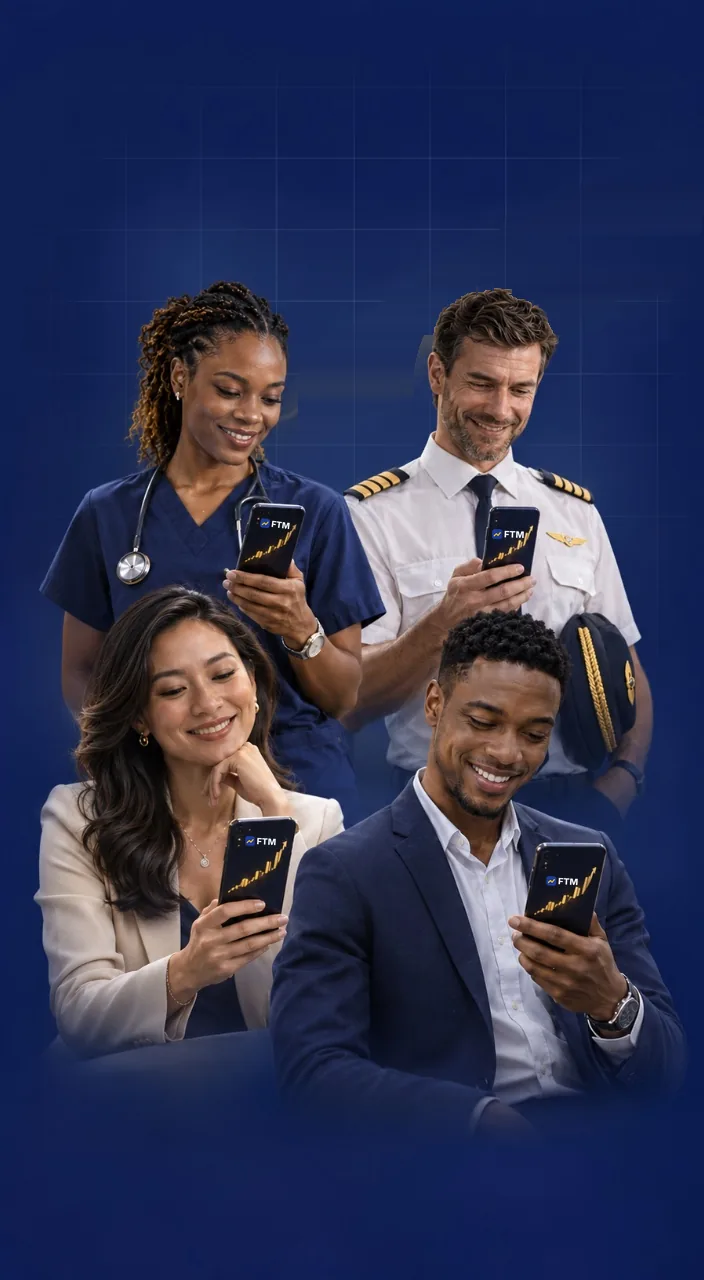
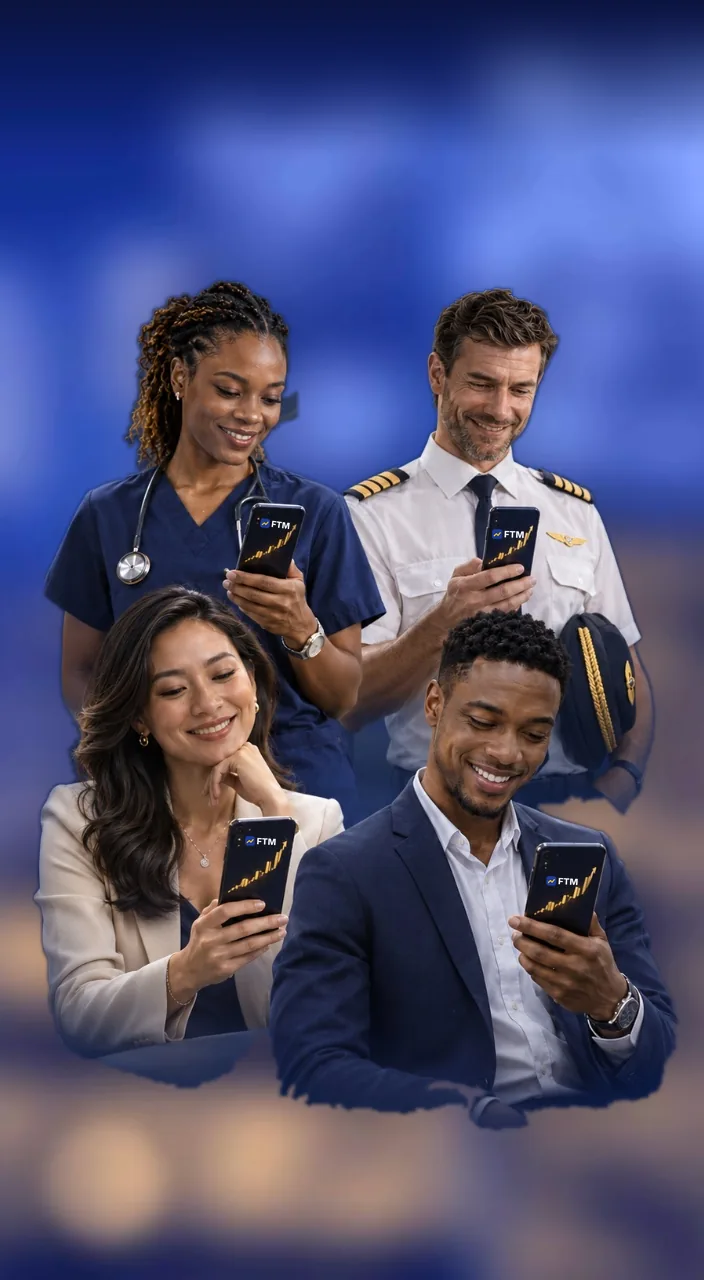
Hero: blurred night-city background behind the people
Claude-Session: https://claude.ai/code/session_015ASeiR4KkcEsuYPMxYb7QY

diff --git a/index.html b/index.html
@@ -1985,7 +1985,7 @@ html,body{max-width:100%;overflow-x:hidden}@supports (overflow:clip){html,body{o
 <main id="top">
 
 <section class="hero">
-  <div class="hero-bg"></div><picture class="hero-photo" aria-hidden="true"><source srcset="/hero-people.webp?v=3" type="image/webp"><img src="/hero-people.jpg?v=3" alt="" width="704" height="1280" fetchpriority="high" decoding="async"></picture><svg class="hero-people" viewBox="0 0 700 1000" preserveAspectRatio="xMidYMax slice" aria-hidden="true"><defs><radialGradient id="glow"><stop offset="0" stop-color="#fff" stop-opacity=".55"/><stop offset="1" stop-color="#fff" stop-opacity="0"/></radialGradient><linearGradient id="fade" x1="0" x2="1"><stop offset=".55" stop-color="#fff"/><stop offset="1" stop-color="#fff" stop-opacity="0"/></linearGradient><mask id="fadeMask"><rect width="700" height="1000" fill="url(#fade)"/></mask></defs><g mask="url(#fadeMask)"><g transform="translate(70 640) scale(1.0)"><path d="M-70 0 C-70 -70 -40 -95 0 -95 C40 -95 70 -70 70 0 Z" fill="#3B82F6"/><rect x="-14" y="-118" width="28" height="30" rx="8" fill="#5C3A21"/><ellipse cx="0" cy="-140" rx="34" ry="38" fill="#5C3A21"/><path d="M-34 -150 C-34 -190 34 -190 34 -150 C20 -168 -20 -168 -34 -150Z" fill="#d9b26f"/><path d="M-12 -126 Q0 -116 12 -126" stroke="#3a1f10" stroke-width="3" fill="none" stroke-linecap="round"/><path d="M-60 -40 Q-40 -80 -10 -70" stroke="#5C3A21" stroke-width="16" fill="none" stroke-linecap="round"/><path d="M60 -40 Q40 -80 10 -70" stroke="#5C3A21" stroke-width="16" fill="none" stroke-linecap="round"/><circle cx="0" cy="-80" r="60" fill="url(#glow)"/><rect x="-16" y="-96" width="32" height="50" rx="6" fill="#0B1440" stroke="#F5F3EE" stroke-width="2"/><rect x="-12" y="-90" width="24" height="38" rx="3" fill="#cfe3ff"/></g><g transform="translate(120 780) scale(1.1)"><path d="M-70 0 C-70 -70 -40 -95 0 -95 C40 -95 70 -70 70 0 Z" fill="#D4AF37"/><rect x="-14" y="-118" width="28" height="30" rx="8" fill="#8D5524"/><ellipse cx="0" cy="-140" rx="34" ry="38" fill="#8D5524"/><path d="M-34 -150 C-34 -190 34 -190 34 -150 C20 -168 -20 -168 -34 -150Z" fill="#d9b26f"/><path d="M-12 -126 Q0 -116 12 -126" stroke="#3a1f10" stroke-width="3" fill="none" stroke-linecap="round"/><path d="M-60 -40 Q-40 -80 -10 -70" stroke="#8D5524" stroke-width="16" fill="none" stroke-linecap="round"/><path d="M60 -40 Q40 -80 10 -70" stroke="#8D5524" stroke-width="16" fill="none" stroke-linecap="round"/><circle cx="0" cy="-80" r="60" fill="url(#glow)"/><rect x="-16" y="-96" width="32" height="50" rx="6" fill="#0B1440" stroke="#F5F3EE" stroke-width="2"/><rect x="-12" y="-90" width="24" height="38" rx="3" fill="#cfe3ff"/></g><g transform="translate(30 900) scale(1.3)"><path d="M-70 0 C-70 -70 -40 -95 0 -95 C40 -95 70 -70 70 0 Z" fill="#60A5FA"/><rect x="-14" y="-118" width="28" height="30" rx="8" fill="#8D5524"/><ellipse cx="0" cy="-140" rx="34" ry="38" fill="#8D5524"/><path d="M-36 -150 C-36 -185 36 -185 36 -150 L40 -100 L30 -100 L28 -140 L-28 -140 L-30 -100 L-40 -100Z" fill="#111"/><path d="M-12 -126 Q0 -116 12 -126" stroke="#3a1f10" stroke-width="3" fill="none" stroke-linecap="round"/><path d="M-60 -40 Q-40 -80 -10 -70" stroke="#8D5524" stroke-width="16" fill="none" stroke-linecap="round"/><path d="M60 -40 Q40 -80 10 -70" stroke="#8D5524" stroke-width="16" fill="none" stroke-linecap="round"/><circle cx="0" cy="-80" r="60" fill="url(#glow)"/><rect x="-16" y="-96" width="32" height="50" rx="6" fill="#0B1440" stroke="#F5F3EE" stroke-width="2"/><rect x="-12" y="-90" width="24" height="38" rx="3" fill="#cfe3ff"/></g><g transform="translate(240 950) scale(1.1)"><path d="M-70 0 C-70 -70 -40 -95 0 -95 C40 -95 70 -70 70 0 Z" fill="#60A5FA"/><rect x="-14" y="-118" width="28" height="30" rx="8" fill="#F1C27D"/><ellipse cx="0" cy="-140" rx="34" ry="38" fill="#F1C27D"/><path d="M-34 -150 C-34 -190 34 -190 34 -150 C20 -168 -20 -168 -34 -150Z" fill="#111"/><path d="M-12 -126 Q0 -116 12 -126" stroke="#3a1f10" stroke-width="3" fill="none" stroke-linecap="round"/><path d="M-60 -40 Q-40 -80 -10 -70" stroke="#F1C27D" stroke-width="16" fill="none" stroke-linecap="round"/><path d="M60 -40 Q40 -80 10 -70" stroke="#F1C27D" stroke-width="16" fill="none" stroke-linecap="round"/><circle cx="0" cy="-80" r="60" fill="url(#glow)"/><rect x="-16" y="-96" width="32" height="50" rx="6" fill="#0B1440" stroke="#F5F3EE" stroke-width="2"/><rect x="-12" y="-90" width="24" height="38" rx="3" fill="#cfe3ff"/></g><g class="algo"><line x1="531" y1="366" x2="538" y2="311" stroke="#F5F3EE" stroke-width="1.2"/><line x1="531" y1="366" x2="562" y2="323" stroke="#F5F3EE" stroke-width="1.2"/><line x1="531" y1="366" x2="622" y2="394" stroke="#F5F3EE" stroke-width="1.2"/><line x1="531" y1="366" x2="528" y2="235" stroke="#F5F3EE" stroke-width="1.2"/><line x1="531" y1="366" x2="575" y2="494" stroke="#F5F3EE" stroke-width="1.2"/><line x1="531" y1="366" x2="655" y2="404" stroke="#F5F3EE" stroke-width="1.2"/><line x1="531" y1="366" x2="502" y2="311" stroke="#F5F3EE" stroke-width="1.2"/><line x1="531" y1="366" x2="634" y2="458" stroke="#F5F3EE" stroke-width="1.2"/><line x1="531" y1="366" x2="615" y2="412" stroke="#F5F3EE" stroke-width="1.2"/><line x1="538" y1="311" x2="600" y2="177" stroke="#F5F3EE" stroke-width="1.2"/><line x1="538" y1="311" x2="562" y2="323" stroke="#F5F3EE" stroke-width="1.2"/><line x1="538" y1="311" x2="622" y2="394" stroke="#F5F3EE" stroke-width="1.2"/><line x1="538" y1="311" x2="528" y2="235" stroke="#F5F3EE" stroke-width="1.2"/><line x1="538" y1="311" x2="655" y2="404" stroke="#F5F3EE" stroke-width="1.2"/><line x1="538" y1="311" x2="502" y2="311" stroke="#F5F3EE" stroke-width="1.2"/><line x1="538" y1="311" x2="615" y2="412" stroke="#F5F3EE" stroke-width="1.2"/><line x1="560" y1="517" x2="622" y2="394" stroke="#F5F3EE" stroke-width="1.2"/><line x1="560" y1="517" x2="575" y2="494" stroke="#F5F3EE" stroke-width="1.2"/><line x1="560" y1="517" x2="655" y2="404" stroke="#F5F3EE" stroke-width="1.2"/><line x1="560" y1="517" x2="634" y2="458" stroke="#F5F3EE" stroke-width="1.2"/><line x1="560" y1="517" x2="615" y2="412" stroke="#F5F3EE" stroke-width="1.2"/><line x1="600" y1="177" x2="528" y2="235" stroke="#F5F3EE" stroke-width="1.2"/><line x1="600" y1="177" x2="570" y2="112" stroke="#F5F3EE" stroke-width="1.2"/><line x1="600" y1="177" x2="607" y2="95" stroke="#F5F3EE" stroke-width="1.2"/><line x1="394" y1="491" x2="321" y2="384" stroke="#F5F3EE" stroke-width="1.2"/><line x1="394" y1="491" x2="380" y2="399" stroke="#F5F3EE" stroke-width="1.2"/><line x1="394" y1="491" x2="307" y2="505" stroke="#F5F3EE" stroke-width="1.2"/><line x1="562" y1="323" x2="622" y2="394" stroke="#F5F3EE" stroke-width="1.2"/><line x1="562" y1="323" x2="528" y2="235" stroke="#F5F3EE" stroke-width="1.2"/><line x1="562" y1="323" x2="655" y2="404" stroke="#F5F3EE" stroke-width="1.2"/><line x1="562" y1="323" x2="502" y2="311" stroke="#F5F3EE" stroke-width="1.2"/><line x1="562" y1="323" x2="615" y2="412" stroke="#F5F3EE" stroke-width="1.2"/><line x1="622" y1="394" x2="575" y2="494" stroke="#F5F3EE" stroke-width="1.2"/><line x1="622" y1="394" x2="655" y2="404" stroke="#F5F3EE" stroke-width="1.2"/><line x1="622" y1="394" x2="502" y2="311" stroke="#F5F3EE" stroke-width="1.2"/><line x1="622" y1="394" x2="634" y2="458" stroke="#F5F3EE" stroke-width="1.2"/><line x1="622" y1="394" x2="615" y2="412" stroke="#F5F3EE" stroke-width="1.2"/><line x1="395" y1="128" x2="372" y2="126" stroke="#F5F3EE" stroke-width="1.2"/><line x1="395" y1="128" x2="330" y2="98" stroke="#F5F3EE" stroke-width="1.2"/><line x1="395" y1="128" x2="397" y2="203" stroke="#F5F3EE" stroke-width="1.2"/><line x1="528" y1="235" x2="502" y2="311" stroke="#F5F3EE" stroke-width="1.2"/><line x1="528" y1="235" x2="570" y2="112" stroke="#F5F3EE" stroke-width="1.2"/><line x1="528" y1="235" x2="397" y2="203" stroke="#F5F3EE" stroke-width="1.2"/><line x1="372" y1="126" x2="330" y2="98" stroke="#F5F3EE" stroke-width="1.2"/><line x1="372" y1="126" x2="397" y2="203" stroke="#F5F3EE" stroke-width="1.2"/><line x1="575" y1="494" x2="655" y2="404" stroke="#F5F3EE" stroke-width="1.2"/><line x1="575" y1="494" x2="634" y2="458" stroke="#F5F3EE" stroke-width="1.2"/><line x1="575" y1="494" x2="615" y2="412" stroke="#F5F3EE" stroke-width="1.2"/><line x1="655" y1="404" x2="634" y2="458" stroke="#F5F3EE" stroke-width="1.2"/><line x1="655" y1="404" x2="615" y2="412" stroke="#F5F3EE" stroke-width="1.2"/><line x1="321" y1="384" x2="380" y2="399" stroke="#F5F3EE" stroke-width="1.2"/><line x1="321" y1="384" x2="307" y2="505" stroke="#F5F3EE" stroke-width="1.2"/><line x1="634" y1="458" x2="615" y2="412" stroke="#F5F3EE" stroke-width="1.2"/><line x1="380" y1="399" x2="307" y2="505" stroke="#F5F3EE" stroke-width="1.2"/><line x1="570" y1="112" x2="607" y2="95" stroke="#F5F3EE" stroke-width="1.2"/><line x1="330" y1="98" x2="397" y2="203" stroke="#F5F3EE" stroke-width="1.2"/><circle cx="531" cy="366" r="5" fill="#60A5FA"/><circle cx="538" cy="311" r="5" fill="#F5F3EE"/><circle cx="560" cy="517" r="7" fill="#F5F3EE"/><circle cx="600" cy="177" r="7" fill="#60A5FA"/><circle cx="394" cy="491" r="5" fill="#D4AF37"/><circle cx="562" cy="323" r="7" fill="#D4AF37"/><circle cx="622" cy="394" r="5" fill="#60A5FA"/><circle cx="395" cy="128" r="5" fill="#D4AF37"/><circle cx="528" cy="235" r="7" fill="#60A5FA"/><circle cx="372" cy="126" r="5" fill="#F5F3EE"/><circle cx="575" cy="494" r="7" fill="#60A5FA"/><circle cx="655" cy="404" r="4" fill="#D4AF37"/><circle cx="321" cy="384" r="7" fill="#D4AF37"/><circle cx="502" cy="311" r="5" fill="#D4AF37"/><circle cx="634" cy="458" r="5" fill="#2fa66b"/><circle cx="615" cy="412" r="4" fill="#D4AF37"/><circle cx="380" cy="399" r="7" fill="#D4AF37"/><circle cx="307" cy="505" r="4" fill="#F5F3EE"/><circle cx="570" cy="112" r="4" fill="#2fa66b"/><circle cx="330" cy="98" r="5" fill="#2fa66b"/><circle cx="397" cy="203" r="5" fill="#D4AF37"/><circle cx="607" cy="95" r="7" fill="#F5F3EE"/><text x="380" y="560" font-family="ui-monospace,Menlo,monospace" font-size="15" fill="#D4AF37" opacity="0.9">for setup in setups:</text><text x="380" y="586" font-family="ui-monospace,Menlo,monospace" font-size="15" fill="#F5F3EE" opacity="0.7">def execute(order):</text><text x="340" y="612" font-family="ui-monospace,Menlo,monospace" font-size="15" fill="#F5F3EE" opacity="0.5">def execute(order):</text><text x="300" y="638" font-family="ui-monospace,Menlo,monospace" font-size="15" fill="#F5F3EE" opacity="0.7">await broker.send()</text><text x="340" y="664" font-family="ui-monospace,Menlo,monospace" font-size="15" fill="#60A5FA" opacity="0.5">tp = entry + atr*3</text><text x="420" y="690" font-family="ui-monospace,Menlo,monospace" font-size="15" fill="#60A5FA" opacity="0.9">while market.open:</text><text x="420" y="716" font-family="ui-monospace,Menlo,monospace" font-size="15" fill="#60A5FA" opacity="0.7">def execute(order):</text><text x="420" y="742" font-family="ui-monospace,Menlo,monospace" font-size="15" fill="#D4AF37" opacity="0.9">if price &gt; ema200:</text><text x="380" y="768" font-family="ui-monospace,Menlo,monospace" font-size="15" fill="#60A5FA" opacity="0.7">if price &gt; ema200:</text><text x="340" y="794" font-family="ui-monospace,Menlo,monospace" font-size="15" fill="#F5F3EE" opacity="0.7">def execute(order):</text><text x="300" y="820" font-family="ui-monospace,Menlo,monospace" font-size="15" fill="#F5F3EE" opacity="0.9">if rsi &lt; 30 and trend:</text><text x="380" y="846" font-family="ui-monospace,Menlo,monospace" font-size="15" fill="#F5F3EE" opacity="0.5">drawdown &lt; 15%</text><text x="380" y="872" font-family="ui-monospace,Menlo,monospace" font-size="15" fill="#D4AF37" opacity="0.9">risk = 0.5%</text><text x="300" y="898" font-family="ui-monospace,Menlo,monospace" font-size="15" fill="#F5F3EE" opacity="0.5">01001101 01010100</text><text x="300" y="924" font-family="ui-monospace,Menlo,monospace" font-size="15" fill="#60A5FA" opacity="0.7">position.size = eq*r</text><text x="420" y="950" font-family="ui-monospace,Menlo,monospace" font-size="15" fill="#F5F3EE" opacity="0.5">await broker.send()</text><g stroke="#F5F3EE" stroke-width="1.5" fill="none"><rect x="560" y="560" width="110" height="34" rx="8"/><rect x="560" y="640" width="110" height="34" rx="8"/><rect x="560" y="720" width="110" height="34" rx="8"/><path d="M615 594v46M615 674v46" marker-end="none"/><path d="M609 634l6 6 6-6M609 714l6 6 6-6"/></g><g font-family="Inter,sans-serif" font-size="12" fill="#F5F3EE" text-anchor="middle"><text x="615" y="582">scan markets</text><text x="615" y="662">check rules</text><text x="615" y="742">execute</text></g><rect x="310" y="916" width="8" height="36" fill="#2fa66b"/><rect x="336" y="904" width="8" height="37" fill="#2fa66b"/><rect x="362" y="889" width="8" height="30" fill="#E5323E"/><rect x="388" y="894" width="8" height="39" fill="#2fa66b"/><rect x="414" y="892" width="8" height="33" fill="#2fa66b"/><rect x="440" y="920" width="8" height="33" fill="#2fa66b"/><rect x="466" y="940" width="8" height="31" fill="#E5323E"/><rect x="492" y="910" width="8" height="38" fill="#2fa66b"/><rect x="518" y="883" width="8" height="23" fill="#2fa66b"/><rect x="544" y="882" width="8" height="13" fill="#E5323E"/><rect x="570" y="927" width="8" height="17" fill="#E5323E"/><rect x="596" y="906" width="8" height="18" fill="#E5323E"/><rect x="622" y="913" width="8" height="19" fill="#2fa66b"/><rect x="648" y="926" width="8" height="39" fill="#2fa66b"/></g></g></svg>
+  <div class="hero-bg"></div><picture class="hero-photo" aria-hidden="true"><source srcset="/hero-people.webp?v=4" type="image/webp"><img src="/hero-people.jpg?v=4" alt="" width="704" height="1280" fetchpriority="high" decoding="async"></picture><svg class="hero-people" viewBox="0 0 700 1000" preserveAspectRatio="xMidYMax slice" aria-hidden="true"><defs><radialGradient id="glow"><stop offset="0" stop-color="#fff" stop-opacity=".55"/><stop offset="1" stop-color="#fff" stop-opacity="0"/></radialGradient><linearGradient id="fade" x1="0" x2="1"><stop offset=".55" stop-color="#fff"/><stop offset="1" stop-color="#fff" stop-opacity="0"/></linearGradient><mask id="fadeMask"><rect width="700" height="1000" fill="url(#fade)"/></mask></defs><g mask="url(#fadeMask)"><g transform="translate(70 640) scale(1.0)"><path d="M-70 0 C-70 -70 -40 -95 0 -95 C40 -95 70 -70 70 0 Z" fill="#3B82F6"/><rect x="-14" y="-118" width="28" height="30" rx="8" fill="#5C3A21"/><ellipse cx="0" cy="-140" rx="34" ry="38" fill="#5C3A21"/><path d="M-34 -150 C-34 -190 34 -190 34 -150 C20 -168 -20 -168 -34 -150Z" fill="#d9b26f"/><path d="M-12 -126 Q0 -116 12 -126" stroke="#3a1f10" stroke-width="3" fill="none" stroke-linecap="round"/><path d="M-60 -40 Q-40 -80 -10 -70" stroke="#5C3A21" stroke-width="16" fill="none" stroke-linecap="round"/><path d="M60 -40 Q40 -80 10 -70" stroke="#5C3A21" stroke-width="16" fill="none" stroke-linecap="round"/><circle cx="0" cy="-80" r="60" fill="url(#glow)"/><rect x="-16" y="-96" width="32" height="50" rx="6" fill="#0B1440" stroke="#F5F3EE" stroke-width="2"/><rect x="-12" y="-90" width="24" height="38" rx="3" fill="#cfe3ff"/></g><g transform="translate(120 780) scale(1.1)"><path d="M-70 0 C-70 -70 -40 -95 0 -95 C40 -95 70 -70 70 0 Z" fill="#D4AF37"/><rect x="-14" y="-118" width="28" height="30" rx="8" fill="#8D5524"/><ellipse cx="0" cy="-140" rx="34" ry="38" fill="#8D5524"/><path d="M-34 -150 C-34 -190 34 -190 34 -150 C20 -168 -20 -168 -34 -150Z" fill="#d9b26f"/><path d="M-12 -126 Q0 -116 12 -126" stroke="#3a1f10" stroke-width="3" fill="none" stroke-linecap="round"/><path d="M-60 -40 Q-40 -80 -10 -70" stroke="#8D5524" stroke-width="16" fill="none" stroke-linecap="round"/><path d="M60 -40 Q40 -80 10 -70" stroke="#8D5524" stroke-width="16" fill="none" stroke-linecap="round"/><circle cx="0" cy="-80" r="60" fill="url(#glow)"/><rect x="-16" y="-96" width="32" height="50" rx="6" fill="#0B1440" stroke="#F5F3EE" stroke-width="2"/><rect x="-12" y="-90" width="24" height="38" rx="3" fill="#cfe3ff"/></g><g transform="translate(30 900) scale(1.3)"><path d="M-70 0 C-70 -70 -40 -95 0 -95 C40 -95 70 -70 70 0 Z" fill="#60A5FA"/><rect x="-14" y="-118" width="28" height="30" rx="8" fill="#8D5524"/><ellipse cx="0" cy="-140" rx="34" ry="38" fill="#8D5524"/><path d="M-36 -150 C-36 -185 36 -185 36 -150 L40 -100 L30 -100 L28 -140 L-28 -140 L-30 -100 L-40 -100Z" fill="#111"/><path d="M-12 -126 Q0 -116 12 -126" stroke="#3a1f10" stroke-width="3" fill="none" stroke-linecap="round"/><path d="M-60 -40 Q-40 -80 -10 -70" stroke="#8D5524" stroke-width="16" fill="none" stroke-linecap="round"/><path d="M60 -40 Q40 -80 10 -70" stroke="#8D5524" stroke-width="16" fill="none" stroke-linecap="round"/><circle cx="0" cy="-80" r="60" fill="url(#glow)"/><rect x="-16" y="-96" width="32" height="50" rx="6" fill="#0B1440" stroke="#F5F3EE" stroke-width="2"/><rect x="-12" y="-90" width="24" height="38" rx="3" fill="#cfe3ff"/></g><g transform="translate(240 950) scale(1.1)"><path d="M-70 0 C-70 -70 -40 -95 0 -95 C40 -95 70 -70 70 0 Z" fill="#60A5FA"/><rect x="-14" y="-118" width="28" height="30" rx="8" fill="#F1C27D"/><ellipse cx="0" cy="-140" rx="34" ry="38" fill="#F1C27D"/><path d="M-34 -150 C-34 -190 34 -190 34 -150 C20 -168 -20 -168 -34 -150Z" fill="#111"/><path d="M-12 -126 Q0 -116 12 -126" stroke="#3a1f10" stroke-width="3" fill="none" stroke-linecap="round"/><path d="M-60 -40 Q-40 -80 -10 -70" stroke="#F1C27D" stroke-width="16" fill="none" stroke-linecap="round"/><path d="M60 -40 Q40 -80 10 -70" stroke="#F1C27D" stroke-width="16" fill="none" stroke-linecap="round"/><circle cx="0" cy="-80" r="60" fill="url(#glow)"/><rect x="-16" y="-96" width="32" height="50" rx="6" fill="#0B1440" stroke="#F5F3EE" stroke-width="2"/><rect x="-12" y="-90" width="24" height="38" rx="3" fill="#cfe3ff"/></g><g class="algo"><line x1="531" y1="366" x2="538" y2="311" stroke="#F5F3EE" stroke-width="1.2"/><line x1="531" y1="366" x2="562" y2="323" stroke="#F5F3EE" stroke-width="1.2"/><line x1="531" y1="366" x2="622" y2="394" stroke="#F5F3EE" stroke-width="1.2"/><line x1="531" y1="366" x2="528" y2="235" stroke="#F5F3EE" stroke-width="1.2"/><line x1="531" y1="366" x2="575" y2="494" stroke="#F5F3EE" stroke-width="1.2"/><line x1="531" y1="366" x2="655" y2="404" stroke="#F5F3EE" stroke-width="1.2"/><line x1="531" y1="366" x2="502" y2="311" stroke="#F5F3EE" stroke-width="1.2"/><line x1="531" y1="366" x2="634" y2="458" stroke="#F5F3EE" stroke-width="1.2"/><line x1="531" y1="366" x2="615" y2="412" stroke="#F5F3EE" stroke-width="1.2"/><line x1="538" y1="311" x2="600" y2="177" stroke="#F5F3EE" stroke-width="1.2"/><line x1="538" y1="311" x2="562" y2="323" stroke="#F5F3EE" stroke-width="1.2"/><line x1="538" y1="311" x2="622" y2="394" stroke="#F5F3EE" stroke-width="1.2"/><line x1="538" y1="311" x2="528" y2="235" stroke="#F5F3EE" stroke-width="1.2"/><line x1="538" y1="311" x2="655" y2="404" stroke="#F5F3EE" stroke-width="1.2"/><line x1="538" y1="311" x2="502" y2="311" stroke="#F5F3EE" stroke-width="1.2"/><line x1="538" y1="311" x2="615" y2="412" stroke="#F5F3EE" stroke-width="1.2"/><line x1="560" y1="517" x2="622" y2="394" stroke="#F5F3EE" stroke-width="1.2"/><line x1="560" y1="517" x2="575" y2="494" stroke="#F5F3EE" stroke-width="1.2"/><line x1="560" y1="517" x2="655" y2="404" stroke="#F5F3EE" stroke-width="1.2"/><line x1="560" y1="517" x2="634" y2="458" stroke="#F5F3EE" stroke-width="1.2"/><line x1="560" y1="517" x2="615" y2="412" stroke="#F5F3EE" stroke-width="1.2"/><line x1="600" y1="177" x2="528" y2="235" stroke="#F5F3EE" stroke-width="1.2"/><line x1="600" y1="177" x2="570" y2="112" stroke="#F5F3EE" stroke-width="1.2"/><line x1="600" y1="177" x2="607" y2="95" stroke="#F5F3EE" stroke-width="1.2"/><line x1="394" y1="491" x2="321" y2="384" stroke="#F5F3EE" stroke-width="1.2"/><line x1="394" y1="491" x2="380" y2="399" stroke="#F5F3EE" stroke-width="1.2"/><line x1="394" y1="491" x2="307" y2="505" stroke="#F5F3EE" stroke-width="1.2"/><line x1="562" y1="323" x2="622" y2="394" stroke="#F5F3EE" stroke-width="1.2"/><line x1="562" y1="323" x2="528" y2="235" stroke="#F5F3EE" stroke-width="1.2"/><line x1="562" y1="323" x2="655" y2="404" stroke="#F5F3EE" stroke-width="1.2"/><line x1="562" y1="323" x2="502" y2="311" stroke="#F5F3EE" stroke-width="1.2"/><line x1="562" y1="323" x2="615" y2="412" stroke="#F5F3EE" stroke-width="1.2"/><line x1="622" y1="394" x2="575" y2="494" stroke="#F5F3EE" stroke-width="1.2"/><line x1="622" y1="394" x2="655" y2="404" stroke="#F5F3EE" stroke-width="1.2"/><line x1="622" y1="394" x2="502" y2="311" stroke="#F5F3EE" stroke-width="1.2"/><line x1="622" y1="394" x2="634" y2="458" stroke="#F5F3EE" stroke-width="1.2"/><line x1="622" y1="394" x2="615" y2="412" stroke="#F5F3EE" stroke-width="1.2"/><line x1="395" y1="128" x2="372" y2="126" stroke="#F5F3EE" stroke-width="1.2"/><line x1="395" y1="128" x2="330" y2="98" stroke="#F5F3EE" stroke-width="1.2"/><line x1="395" y1="128" x2="397" y2="203" stroke="#F5F3EE" stroke-width="1.2"/><line x1="528" y1="235" x2="502" y2="311" stroke="#F5F3EE" stroke-width="1.2"/><line x1="528" y1="235" x2="570" y2="112" stroke="#F5F3EE" stroke-width="1.2"/><line x1="528" y1="235" x2="397" y2="203" stroke="#F5F3EE" stroke-width="1.2"/><line x1="372" y1="126" x2="330" y2="98" stroke="#F5F3EE" stroke-width="1.2"/><line x1="372" y1="126" x2="397" y2="203" stroke="#F5F3EE" stroke-width="1.2"/><line x1="575" y1="494" x2="655" y2="404" stroke="#F5F3EE" stroke-width="1.2"/><line x1="575" y1="494" x2="634" y2="458" stroke="#F5F3EE" stroke-width="1.2"/><line x1="575" y1="494" x2="615" y2="412" stroke="#F5F3EE" stroke-width="1.2"/><line x1="655" y1="404" x2="634" y2="458" stroke="#F5F3EE" stroke-width="1.2"/><line x1="655" y1="404" x2="615" y2="412" stroke="#F5F3EE" stroke-width="1.2"/><line x1="321" y1="384" x2="380" y2="399" stroke="#F5F3EE" stroke-width="1.2"/><line x1="321" y1="384" x2="307" y2="505" stroke="#F5F3EE" stroke-width="1.2"/><line x1="634" y1="458" x2="615" y2="412" stroke="#F5F3EE" stroke-width="1.2"/><line x1="380" y1="399" x2="307" y2="505" stroke="#F5F3EE" stroke-width="1.2"/><line x1="570" y1="112" x2="607" y2="95" stroke="#F5F3EE" stroke-width="1.2"/><line x1="330" y1="98" x2="397" y2="203" stroke="#F5F3EE" stroke-width="1.2"/><circle cx="531" cy="366" r="5" fill="#60A5FA"/><circle cx="538" cy="311" r="5" fill="#F5F3EE"/><circle cx="560" cy="517" r="7" fill="#F5F3EE"/><circle cx="600" cy="177" r="7" fill="#60A5FA"/><circle cx="394" cy="491" r="5" fill="#D4AF37"/><circle cx="562" cy="323" r="7" fill="#D4AF37"/><circle cx="622" cy="394" r="5" fill="#60A5FA"/><circle cx="395" cy="128" r="5" fill="#D4AF37"/><circle cx="528" cy="235" r="7" fill="#60A5FA"/><circle cx="372" cy="126" r="5" fill="#F5F3EE"/><circle cx="575" cy="494" r="7" fill="#60A5FA"/><circle cx="655" cy="404" r="4" fill="#D4AF37"/><circle cx="321" cy="384" r="7" fill="#D4AF37"/><circle cx="502" cy="311" r="5" fill="#D4AF37"/><circle cx="634" cy="458" r="5" fill="#2fa66b"/><circle cx="615" cy="412" r="4" fill="#D4AF37"/><circle cx="380" cy="399" r="7" fill="#D4AF37"/><circle cx="307" cy="505" r="4" fill="#F5F3EE"/><circle cx="570" cy="112" r="4" fill="#2fa66b"/><circle cx="330" cy="98" r="5" fill="#2fa66b"/><circle cx="397" cy="203" r="5" fill="#D4AF37"/><circle cx="607" cy="95" r="7" fill="#F5F3EE"/><text x="380" y="560" font-family="ui-monospace,Menlo,monospace" font-size="15" fill="#D4AF37" opacity="0.9">for setup in setups:</text><text x="380" y="586" font-family="ui-monospace,Menlo,monospace" font-size="15" fill="#F5F3EE" opacity="0.7">def execute(order):</text><text x="340" y="612" font-family="ui-monospace,Menlo,monospace" font-size="15" fill="#F5F3EE" opacity="0.5">def execute(order):</text><text x="300" y="638" font-family="ui-monospace,Menlo,monospace" font-size="15" fill="#F5F3EE" opacity="0.7">await broker.send()</text><text x="340" y="664" font-family="ui-monospace,Menlo,monospace" font-size="15" fill="#60A5FA" opacity="0.5">tp = entry + atr*3</text><text x="420" y="690" font-family="ui-monospace,Menlo,monospace" font-size="15" fill="#60A5FA" opacity="0.9">while market.open:</text><text x="420" y="716" font-family="ui-monospace,Menlo,monospace" font-size="15" fill="#60A5FA" opacity="0.7">def execute(order):</text><text x="420" y="742" font-family="ui-monospace,Menlo,monospace" font-size="15" fill="#D4AF37" opacity="0.9">if price &gt; ema200:</text><text x="380" y="768" font-family="ui-monospace,Menlo,monospace" font-size="15" fill="#60A5FA" opacity="0.7">if price &gt; ema200:</text><text x="340" y="794" font-family="ui-monospace,Menlo,monospace" font-size="15" fill="#F5F3EE" opacity="0.7">def execute(order):</text><text x="300" y="820" font-family="ui-monospace,Menlo,monospace" font-size="15" fill="#F5F3EE" opacity="0.9">if rsi &lt; 30 and trend:</text><text x="380" y="846" font-family="ui-monospace,Menlo,monospace" font-size="15" fill="#F5F3EE" opacity="0.5">drawdown &lt; 15%</text><text x="380" y="872" font-family="ui-monospace,Menlo,monospace" font-size="15" fill="#D4AF37" opacity="0.9">risk = 0.5%</text><text x="300" y="898" font-family="ui-monospace,Menlo,monospace" font-size="15" fill="#F5F3EE" opacity="0.5">01001101 01010100</text><text x="300" y="924" font-family="ui-monospace,Menlo,monospace" font-size="15" fill="#60A5FA" opacity="0.7">position.size = eq*r</text><text x="420" y="950" font-family="ui-monospace,Menlo,monospace" font-size="15" fill="#F5F3EE" opacity="0.5">await broker.send()</text><g stroke="#F5F3EE" stroke-width="1.5" fill="none"><rect x="560" y="560" width="110" height="34" rx="8"/><rect x="560" y="640" width="110" height="34" rx="8"/><rect x="560" y="720" width="110" height="34" rx="8"/><path d="M615 594v46M615 674v46" marker-end="none"/><path d="M609 634l6 6 6-6M609 714l6 6 6-6"/></g><g font-family="Inter,sans-serif" font-size="12" fill="#F5F3EE" text-anchor="middle"><text x="615" y="582">scan markets</text><text x="615" y="662">check rules</text><text x="615" y="742">execute</text></g><rect x="310" y="916" width="8" height="36" fill="#2fa66b"/><rect x="336" y="904" width="8" height="37" fill="#2fa66b"/><rect x="362" y="889" width="8" height="30" fill="#E5323E"/><rect x="388" y="894" width="8" height="39" fill="#2fa66b"/><rect x="414" y="892" width="8" height="33" fill="#2fa66b"/><rect x="440" y="920" width="8" height="33" fill="#2fa66b"/><rect x="466" y="940" width="8" height="31" fill="#E5323E"/><rect x="492" y="910" width="8" height="38" fill="#2fa66b"/><rect x="518" y="883" width="8" height="23" fill="#2fa66b"/><rect x="544" y="882" width="8" height="13" fill="#E5323E"/><rect x="570" y="927" width="8" height="17" fill="#E5323E"/><rect x="596" y="906" width="8" height="18" fill="#E5323E"/><rect x="622" y="913" width="8" height="19" fill="#2fa66b"/><rect x="648" y="926" width="8" height="39" fill="#2fa66b"/></g></g></svg>
 <div class="hero-grid"></div><div class="hero-fx" aria-hidden="true"><i style="left:8%;animation-delay:0s">XAUUSD ▲</i><i style="left:22%;animation-delay:-4s">BTCUSD ▲</i><i style="left:38%;animation-delay:-9s">+98,644%</i><i style="left:55%;animation-delay:-2s">NDX100 ▲</i><i style="left:68%;animation-delay:-12s">USDJPY ▲</i><i style="left:82%;animation-delay:-6s">BOOM1000 ▲</i><i style="left:92%;animation-delay:-14s">+3,658%</i></div>
   <svg class="hero-chart" viewBox="0 0 900 520" aria-hidden="true">
     <defs><linearGradient id="hg" x1="0" x2="0" y1="0" y2="1"><stop offset="0" stop-color="#D4AF37" stop-opacity=".45"/><stop offset="1" stop-color="#D4AF37" stop-opacity="0"/></linearGradient></defs>
